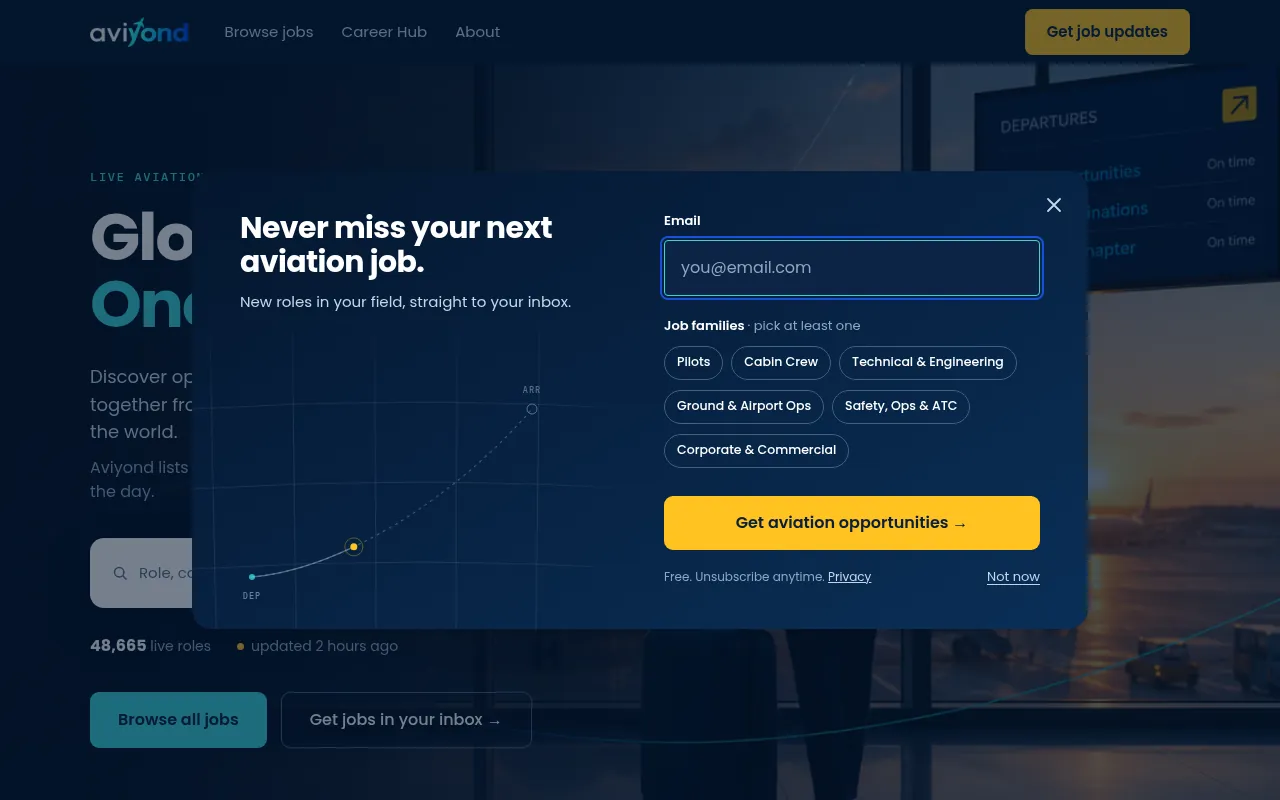
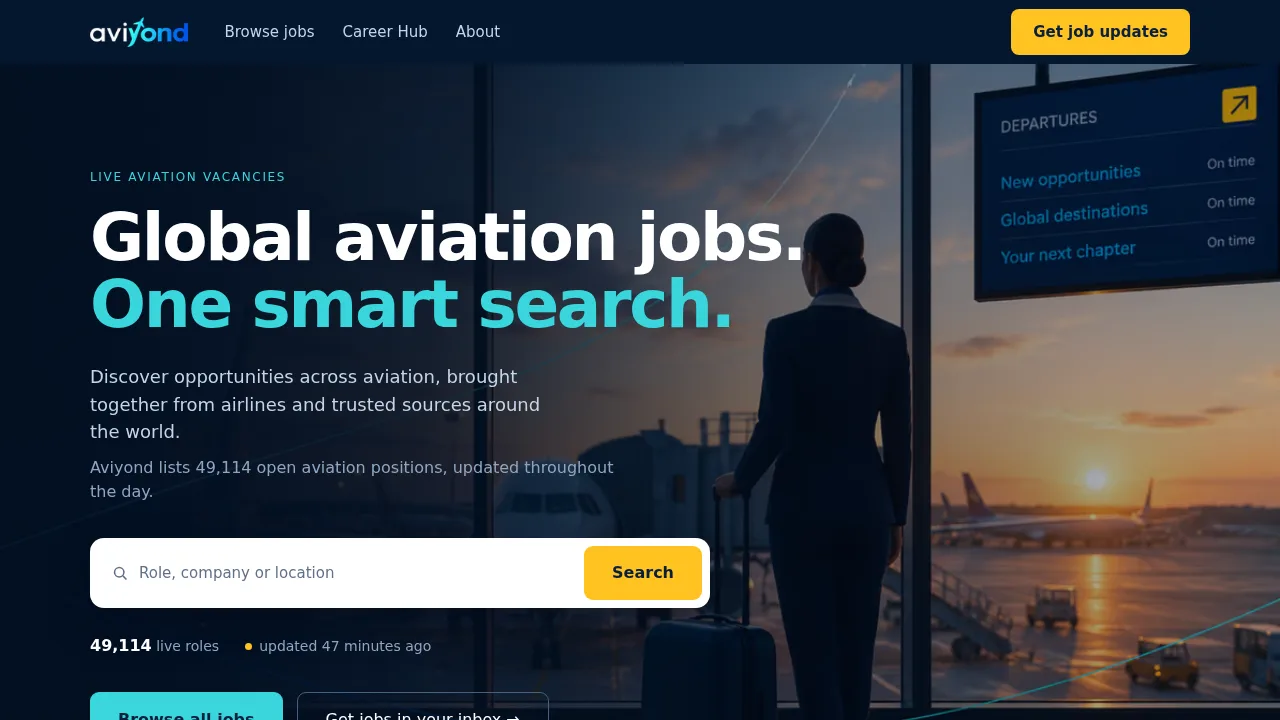
Sellora link, new Aviyond screenshot, fuller About, and section headings

diff --git a/src/pages/Resume.jsx b/src/pages/Resume.jsx
@@ -50,9 +50,9 @@ export default function Resume() {
           {r.experience.map((j) => (
             <div className="job" key={j.company}>
               <div className="job-head">
-                <h2>
+                <h3 className="as-h2">
                   {j.title}, {j.company}
-                </h2>
+                </h3>
                 <span className="when">{j.period}</span>
               </div>
               <div className="ctx">{j.context}</div>
@@ -83,7 +83,7 @@ export default function Resume() {
           {r.products.map((p) => (
             <div className="job" key={p.name}>
               <div className="job-head">
-                <h2>{pageFor(p.name) ? <Link to={`/project/${pageFor(p.name).id}`}>{p.name}</Link> : p.name}</h2>
+                <h3 className="as-h2">{pageFor(p.name) ? <Link to={`/project/${pageFor(p.name).id}`}>{p.name}</Link> : p.name}</h3>
                 <span className="when">{p.status}</span>
               </div>
               <div className="sec measure" style={{ marginTop: '0.2rem' }}>

diff --git a/src/index.css b/src/index.css
@@ -68,6 +68,7 @@ li::marker { color: var(--muted); }
 .row.tight { padding: 1.1rem 0; }
 .row.first { border-top: 0; }
 .rail { font: 400 0.75rem/1.6 var(--mono); letter-spacing: 0.04em; text-transform: uppercase; color: var(--muted); padding-top: 0.35rem; }
+.rail-title { font: inherit; letter-spacing: inherit; text-wrap: initial; }
 .rail a { text-decoration: none; }
 .rail a:hover { text-decoration: underline; }
 .rail strong { color: var(--ink); font-weight: 500; }
@@ -146,6 +147,7 @@ li::marker { color: var(--muted); }
 .job-head .when { font: 400 0.8125rem/1.6 var(--mono); color: var(--muted); white-space: nowrap; }
 .job .ctx { color: var(--muted); font-size: 0.95rem; }
 .job .sec { margin-top: 1.1rem; }
+.as-h2 { font-family: var(--serif); font-size: 1.45rem; letter-spacing: -0.012em; }
 .job .sec h4 { margin: 0; font: 600 1rem/1.4 var(--sans); }
 .job .sec .note { font: 400 0.78rem/1.6 var(--mono); color: var(--muted); margin: 0.15rem 0 0.45rem; }
 .job .sec h4 + ul { margin-top: 0.4rem; }

diff --git a/src/data/projectImages.js b/src/data/projectImages.js
@@ -9,7 +9,7 @@ const img = (src, h, alt, caption) => ({ src, w: 1280, h, alt, caption });
 
 // Keyed by project id. Client work only gets public pages, never internal screens of Uno or Signalist.
 export const projectImages = {
-  6: [img(aviyond, 800, 'The Aviyond home page with the job alert sign-up form open', 'aviyond.com, with the sign-up for email job alerts open')],
+  6: [img(aviyond, 720, 'The Aviyond home page with the job search and the number of live roles', 'aviyond.com')],
   9: [img(quranKeeper, 800, 'The Quran Keeper website showing two phone screens of the app', 'qurankeeper.com')],
   11: [img(kinderfable, 800, 'The Kinderfable home page in Bangla with an illustrated story page', 'The Kinderfable home page')],
   1: [img(sql, 568, 'SQL Playground dashboard with challenges and progress', 'The dashboard')],

diff --git a/src/components/ui.jsx b/src/components/ui.jsx
@@ -14,7 +14,7 @@ export function useTitle(title) {
 export function Row({ rail, className = '', children }) {
   return (
     <section className={`row ${className}`}>
-      <div className="rail">{rail}</div>
+      <div className="rail">{typeof rail === 'string' && !className ? <h2 className="rail-title">{rail}</h2> : rail}</div>
       <div className="content">{children}</div>
     </section>
   );

diff --git a/src/pages/Home.jsx b/src/pages/Home.jsx
@@ -111,6 +111,7 @@ export default function Home() {
 
       <Row rail="About">
         <div className="measure">
+          <p>{site.background}</p>
           <p>{site.flutter}</p>
         </div>
       </Row>
